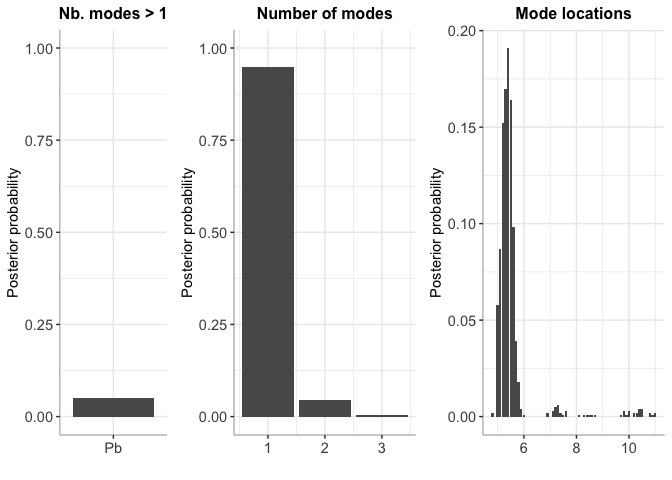
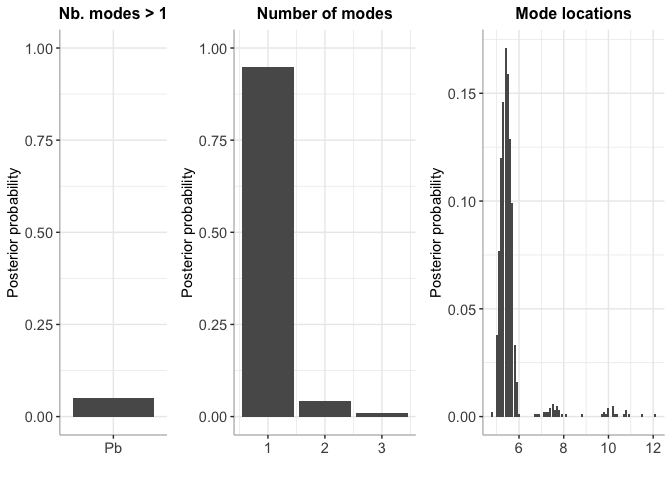
typo

diff --git a/external_comp.md b/external_comp.md
@@ -211,8 +211,8 @@ fit <- stan(model_code = normal_mixture_model, data = data_list, iter = 2000, ch
     ## 
     ## SAMPLING FOR MODEL '07e8533f6a3188d2d50eb989867b63d7' NOW (CHAIN 1).
     ## Chain 1: 
-    ## Chain 1: Gradient evaluation took 4.3e-05 seconds
-    ## Chain 1: 1000 transitions using 10 leapfrog steps per transition would take 0.43 seconds.
+    ## Chain 1: Gradient evaluation took 6e-05 seconds
+    ## Chain 1: 1000 transitions using 10 leapfrog steps per transition would take 0.6 seconds.
     ## Chain 1: Adjust your expectations accordingly!
     ## Chain 1: 
     ## Chain 1: 
@@ -229,9 +229,9 @@ fit <- stan(model_code = normal_mixture_model, data = data_list, iter = 2000, ch
     ## Chain 1: Iteration: 1800 / 2000 [ 90%]  (Sampling)
     ## Chain 1: Iteration: 2000 / 2000 [100%]  (Sampling)
     ## Chain 1: 
-    ## Chain 1:  Elapsed Time: 0.254158 seconds (Warm-up)
-    ## Chain 1:                0.194073 seconds (Sampling)
-    ## Chain 1:                0.448231 seconds (Total)
+    ## Chain 1:  Elapsed Time: 0.255639 seconds (Warm-up)
+    ## Chain 1:                0.196833 seconds (Sampling)
+    ## Chain 1:                0.452472 seconds (Total)
     ## Chain 1:
 
 #### Create a BayesMixture object
@@ -353,8 +353,8 @@ summary(bayesmode)
 
     ##      Number of modes Posterior probabilty
     ## [1,]               1                0.949
-    ## [2,]               2                0.046
-    ## [3,]               3                0.005
+    ## [2,]               2                0.042
+    ## [3,]               3                0.009
 
 ### BNPmix
 
@@ -471,7 +471,7 @@ library(mixtools)
 y = c(rnorm(100,0,1),
       rnorm(100,5,2))
 
-fit = mixtools::normalmixEM(y)
+fit = normalmixEM(y)
 ```
 
     ## number of iterations= 75
@@ -479,7 +479,7 @@ fit = mixtools::normalmixEM(y)
 ``` r
 pars = c(eta = fit$lambda, mu = fit$mu, sigma = fit$sigma)
 
-mix = new_Mixture(pars, dist = "normal") # create new object of class Mixture
+mix = new_Mixture(pars, dist = "normal") # create a new object of class Mixture
 modes = mix_mode(mix) # estimate modes and create an object of class Mode
 
 plot(modes)
@@ -514,8 +514,8 @@ pars = c(eta = fit$parameters$pro,
          mu = fit$parameters$mean,
          sigma = sqrt(fit$parameters$variance$sigmasq))
 
-mix = new_Mixture(pars, dist = "normal") # create new object of class Mixture
-modes = mix_mode(mix) # estimate modes and create an object of class Mode
+mix = new_Mixture(pars, dist = "normal") # creates a new object of class Mixture
+modes = mix_mode(mix) # estimates modes and creates an object of class Mode
 
 plot(modes)
 ```
